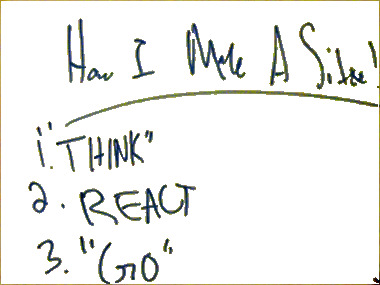
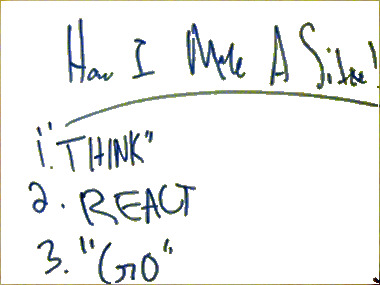
Reverted change to allow a minor difference in the output image.

diff --git a/FredsImageMagickScripts.NET.Tests/Scripts/ScriptTester.cs b/FredsImageMagickScripts.NET.Tests/Scripts/ScriptTester.cs
@@ -87,8 +87,10 @@ namespace FredsImageMagickScripts.NET.Tests.Scripts
 
           double distortion = actualImage.Compare(expectedImage, ErrorMetric.RootMeanSquared);
 
-          /* Allow a minor difference between the images */
-          Assert.AreEqual(0.0, distortion, 0.05, actualImage.FileName);
+          if (distortion != 0)
+            LosslessCompress(actualOutputFile.FullName);
+
+          Assert.AreEqual(0.0, distortion, actualImage.FileName);
         }
       }
     }

diff --git a/FredsImageMagickScripts.NET/Threshold/Whiteboard/WhiteboardScript.cs b/FredsImageMagickScripts.NET/Threshold/Whiteboard/WhiteboardScript.cs
@@ -101,7 +101,7 @@ namespace FredsImageMagickScripts
     private double CalculateAspectRatio()
     {
       if (AspectRatio.HasValue)
-        return (double)AspectRatio.Value.X / AspectRatio.Value.Y;
+        return AspectRatio.Value.X / AspectRatio.Value.Y;
 
       double m1x = _Coords[3].X;
       double m1y = _Coords[3].Y;
